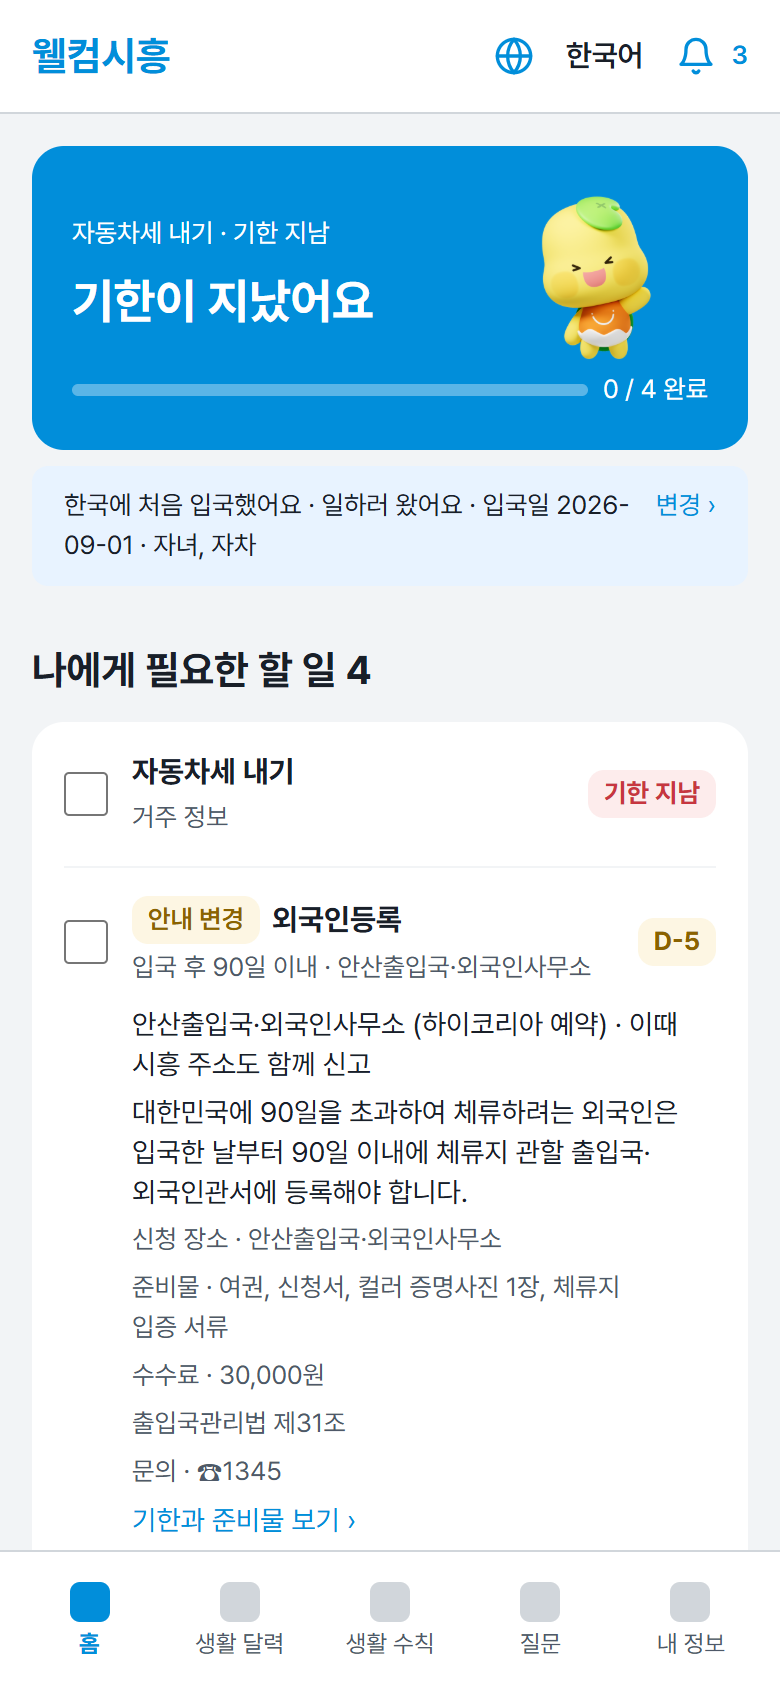
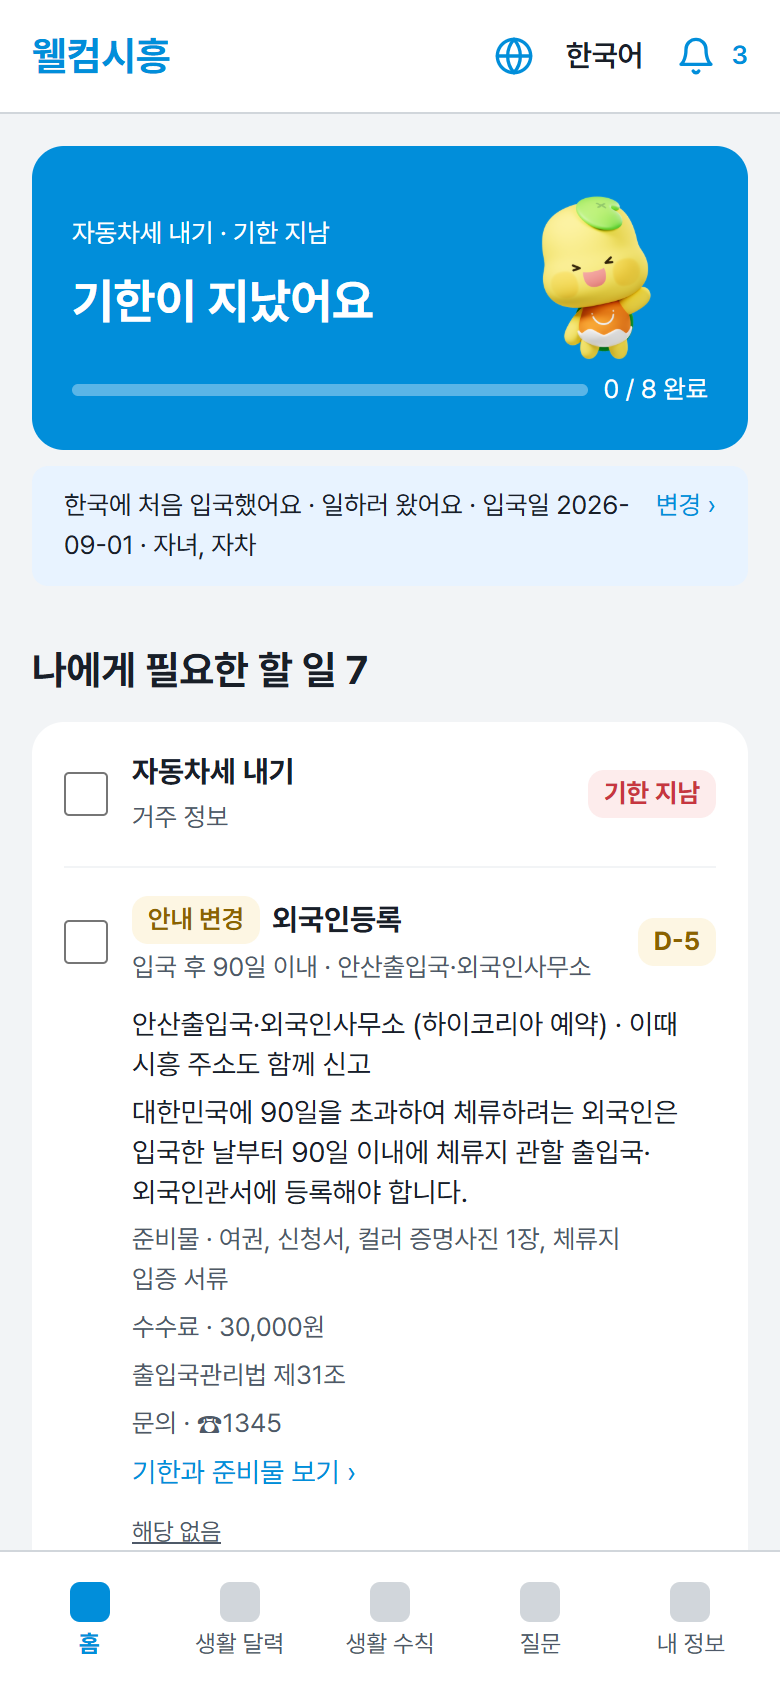
docs: #83 리뷰 반영 기록과 스크린샷

Changed region(s): [[0.1538, 0.7085, 0.8, 0.9242], [0.8, 0.2156, 0.8308, 0.2464], [0.4308, 0.3697, 0.4615, 0.4005]]

diff --git a/docs/prompts/2026-11-27-home-figma-v2.md b/docs/prompts/2026-11-27-home-figma-v2.md
@@ -1,7 +1,7 @@
 # 맞춤 홈과 생활 변화 화면을 Figma v2에 맞춤
 
 - 작성일: 2026-11-27
-- 관련 이슈 / PR: #31, #49 관련. 선행 #81·#82(main에 merge됨)
+- 관련 이슈 / PR: #83. #31, #49 관련. 선행 #81·#82(main에 merge됨)
 
 ## 목적
 
@@ -94,6 +94,16 @@ Figma "맞춤 안내와 질문"의 맞춤 홈(H1, 이사 등록 후)과 "홈 변
   - #82 목록 전환 문구(`nextMonth`·`showAll`·`showNext`)와 홈 CSS의 `.situation` 중복을 지웠다. #82의 `ChecklistCard` 변경은 이 브랜치에서 줄(`TaskRow`)로 바뀐 카드에 반영했다.
   - 할 일 줄을 펼치면 "기한과 준비물 보기 ›"로 상세 화면에 간다. F06b "방법 보기"는 상세 화면으로 이동한다(위 표의 "보류"를 바꿈). 완료 표시는 상세 화면에서 한다.
 - 검증: `npm run check` 통과(Vitest 268개, main 테스트 포함). 목업에서 홈 줄 펼침 → 상세 링크, F06b 방법 보기 → `/home/checklist/LC-01-1` 상세 화면을 확인했다.
+
+## 2026-11-27 후속: #83 리뷰 반영
+
+- 요약: 사용자가 #83 리뷰를 요청했다. AI가 세 가지(상세 화면 ‹가 F06b로 돌아오지 않음, F06b 먼저 하세요 카드의 "해당 없음"이 빠짐, 펼친 줄에서 장소가 두 번 나옴)를 찾았고, 사용자가 셋 다 고치기로 했다.
+- 반영
+  - 상세 화면(#81)의 ‹: 링크 state의 `back`(`/home/`으로 시작할 때만)으로 돌아가고, 없으면 지금처럼 `/home`(`detailBackPath`). F06b "방법 보기"가 자기 주소를 넘긴다. 알림·공유 링크로 들어오면 그대로 홈이다. #81의 `checklist-detail.tsx`·`checklist-detail-page.tsx`를 고쳤다.
+  - F06b 먼저 하세요 카드: "방법 보기" 아래 "해당 없음" 글자 버튼.
+  - 펼친 줄(`GuideDetail`): 줄의 짧은 설명에 장소가 있으면 "신청 장소"를 다시 보여 주지 않는다. 같은 문장이 있어도 경고가 나지 않게 key를 순서로 바꿨다.
+- 검증: `npm run check` 통과(Vitest 269개, `detailBackPath` 테스트 추가). 목업: F06b → 방법 보기 → ‹ = `/home/life-changes/LC-01`, 상세 화면 직접 열기 → ‹ = `/home`, 카드 "해당 없음" → 다음 할 일(자동차 주소 변경)이 카드로, 홈 외국인등록 줄 펼침에 "신청 장소" 줄 없음.
+- 스크린샷(목업, 390×844): [F06b 해당 없음 후](assets/2026-11-27-home-figma-v2-f06b-skip.png), [줄 펼침](assets/2026-11-27-home-figma-v2-row-open.png)
 
 ## 남은 작업
 
